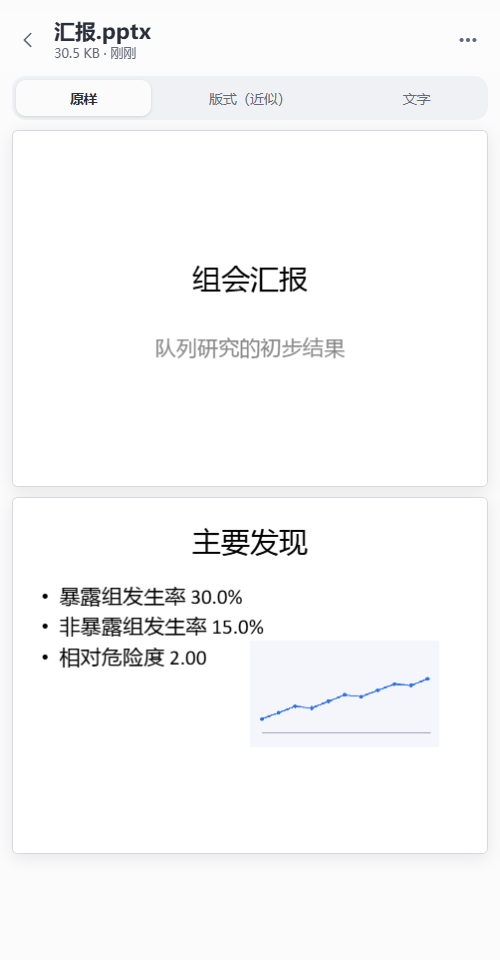
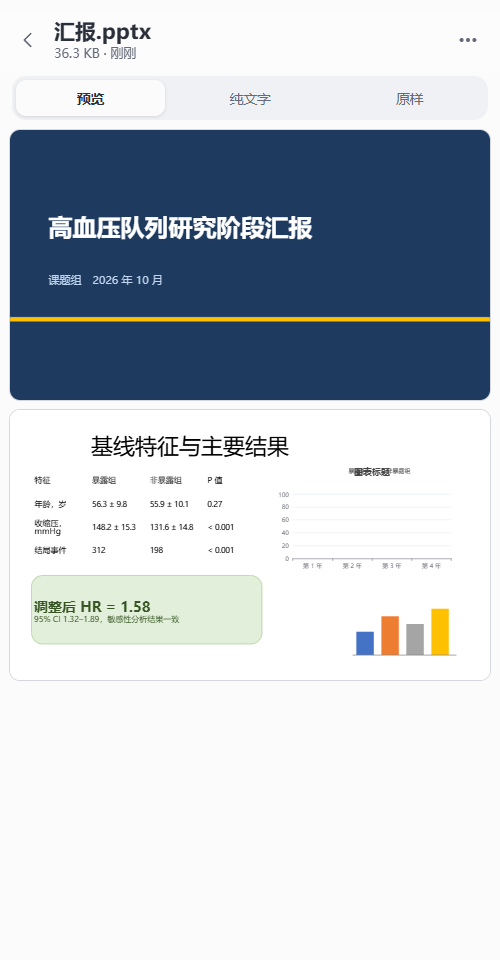
fix(files): Word and PowerPoint open at once, with their formatting and without the wait
Opening one of them first had an office program on the computer write a PDF,
then showed whole pages shrunk to the screen. The page now lays the file out
itself and shows that first: a Word file flows to the width of the screen with
its headings, emphasis, colours, tables, lists and pictures, and reads without
zooming; slides are as wide as the screen. The exact look is the last tab and
is made only when it is chosen. tests/files_check.py takes RCLI_TEST_DOCX and
RCLI_TEST_PPTX to try a document of one's own.

Version 1.0.1 (Android versionCode 29; the app itself is unchanged).

diff --git a/web/files/files.js b/web/files/files.js
@@ -123,31 +123,21 @@
     $('progress').hidden = true;
     return whole;
   }
-  // A Word file laid out as its pages, and a PowerPoint file as its slides, by this page itself. A page of paper is
-  // wider than a phone: it is shown whole, scaled to the width there is, and a tap changes to its real size.
-  function fitted(box, pick, sheet) {
-    const fit = () => {
-      const inner = box.querySelector(pick), page = box.querySelector(sheet);
-      if (!inner || !page || !box.clientWidth) return;
-      inner.style.zoom = '';
-      const wide = page.offsetWidth + 16;           // the page as it was made, with a little air beside it
-      inner.style.zoom = box.classList.contains('actual') || wide <= box.clientWidth ? '' : String(box.clientWidth / wide);
-    };
-    new ResizeObserver(fit).observe(box);
-    box.addEventListener('click', () => { box.classList.toggle('actual'); fit(); });
-    return box;
-  }
+  // A Word file with its formatting (headings, emphasis, colours, tables, pictures, lists), flowing to the width
+  // of the screen like any page of text; a PowerPoint file as its slides, each the width of the screen.
   async function wordLooks(bytes) {
     await need('jszip.min.js');           // the second looks for the first when it is loaded
     await need('docx-preview.min.js');
     const box = el('div', { className: 'looks word-looks' });
-    await docx.renderAsync(bytes, box, null, { inWrapper: true, breakPages: true, useBase64URL: true, renderHeaders: true, renderFooters: true, renderFootnotes: true });
-    return fitted(box, '.docx-wrapper', 'section.docx');
+    await docx.renderAsync(bytes, box, null, { inWrapper: false, ignoreWidth: true, ignoreHeight: true, breakPages: false, useBase64URL: true,
+      renderHeaders: false, renderFooters: false, renderFootnotes: true });
+    box.querySelectorAll('table').forEach(table => { const wrap = el('div', { className: 'wide' }); table.replaceWith(wrap); wrap.append(table); });
+    return box;
   }
   async function slideLooks(bytes) {
     await need('pptx-preview.umd.js');
     const box = el('div', { className: 'looks slide-looks' });
-    const width = Math.max(320, Math.min(document.documentElement.clientWidth, 960));
+    const width = Math.max(300, Math.min(document.documentElement.clientWidth - 20, 960));       // the margin beside the slides
     const viewer = pptxPreview.init(box, { width, height: Math.round(width * 9 / 16), mode: 'list' });
     await viewer.preview(bytes.buffer.slice(bytes.byteOffset, bytes.byteOffset + bytes.byteLength));
     return box;
@@ -445,31 +435,25 @@
       if (!view && K.readable(bytesOf(first.data))) { view = 'code'; language = 'plaintext'; }
       if (!view) { $('loading').hidden = true; return $('view').replaceChildren(unknown(first.size, '这种文件不能在这里预览。')); }
       const limit = kind.limit || 3e6;
-      // Word and PowerPoint keep their look. This page lays the newer formats out itself, pages and slides as they
-      // were made, so no program is needed on the computer. Where the computer has Word, PowerPoint or WPS, the
-      // program writes a PDF and that is shown first: it is exact, and the only way for the older formats.
+      // Word and PowerPoint are shown with their formatting, laid out by this page: light, at once, and with nothing
+      // to install on the computer. A Word file flows to the width of the screen, so it reads without zooming; its
+      // pages are not kept. The exact look, as a PDF written by an office program on the computer, is one tap away
+      // where the computer has such a program, and made only when asked for: it takes a while.
       if (LOOKS.includes(kind.ext)) {
-        const modern = kind.ext === 'docx' || kind.ext === 'pptx';
-        let exact = null, why = '';
-        if (first.size <= 150e6 && await canRender()) {
-          try { exact = await rendered(path, mine); } catch (error) { if (error.message === 'left') throw error; why = error.message; $('progress').hidden = true; }
-        } else if (!modern) why = '旧格式的文件需要电脑上装有 Word、PowerPoint 或 WPS 才能预览。';
+        const modern = kind.ext === 'docx' || kind.ext === 'pptx', exact = first.size <= 150e6 && await canRender();
         if (mine !== run) return;
-        if (!exact && !modern) { $('loading').hidden = true; return $('view').replaceChildren(unknown(first.size, why || '这种文件不能在这里预览。')); }
-        if (!exact && first.size > limit) { $('loading').hidden = true; return $('view').replaceChildren(unknown(first.size, '文件有 ' + K.size(first.size) + '，超过了预览的上限 ' + K.size(limit) + '。')); }
+        if (!modern && !exact) { $('loading').hidden = true; return $('view').replaceChildren(unknown(first.size, '旧格式的文件需要电脑上装有 Word、PowerPoint、WPS 或 LibreOffice 才能预览。')); }
+        if (modern && !exact && first.size > limit) { $('loading').hidden = true; return $('view').replaceChildren(unknown(first.size, '文件有 ' + K.size(first.size) + '，超过了预览的上限 ' + K.size(limit) + '。')); }
         let whole = null;
         const bytes = async () => { if (!whole) { whole = (await read(path, limit, mine, first)).bytes; current.bytes = whole; } return whole; };
         const list = [];
-        if (exact) list.push({ label: '原样', draw: () => pdf(exact, mine) });
         if (modern && first.size <= limit) {
-          // Word pages come out as they were made. Slides are a likeness: where a slide takes its sizes and bullets
-          // from the deck's master, this page does not follow all of it, and says so in the name.
-          list.push({ label: kind.ext === 'docx' ? '版式' : '版式（近似）', draw: async () => kind.ext === 'docx' ? wordLooks(await bytes()) : slideLooks(await bytes()) });
-          list.push({ label: '文字', draw: async () => kind.ext === 'docx' ? word(await bytes()) : slides(await bytes()) });
+          list.push({ label: '预览', draw: async () => kind.ext === 'docx' ? wordLooks(await bytes()) : slideLooks(await bytes()) });
+          list.push({ label: '纯文字', draw: async () => kind.ext === 'docx' ? word(await bytes()) : slides(await bytes()) });
         }
+        if (exact) list.push({ label: '原样', draw: async () => pdf(await rendered(path, mine), mine) });
         await tabs(list, 0);
         $('loading').hidden = true;
-        if (why && modern) toast('电脑没有转出原样预览：' + why);
         return;
       }
       if (first.size > limit) { $('loading').hidden = true; return $('view').replaceChildren(unknown(first.size, '文件有 ' + K.size(first.size) + '，超过了预览的上限 ' + K.size(limit) + '。')); }

diff --git a/web/files/files.css b/web/files/files.css
@@ -141,10 +141,14 @@
 .picture.actual { place-items: start; }
 .picture.actual img { max-width: none; cursor: zoom-out; }
 
-/* Word pages and PowerPoint slides as they were made */
-.looks { overflow-x: auto; }
-.word-looks .docx-wrapper { background: transparent !important; padding: 10px 8px 24px !important; align-items: flex-start !important; width: max-content; min-width: 100%; box-sizing: border-box; }
-.word-looks .docx-wrapper > section.docx { margin-bottom: 14px !important; box-shadow: 0 1px 6px rgba(0, 0, 0, .28) !important; color: #000; }
-.word-looks.actual { cursor: zoom-out; }
+/* Word with its formatting, flowing to the screen; PowerPoint as its slides */
+.word-looks { margin: 0 10px 24px; border: 1px solid var(--line); border-radius: 16px; background: #fff; color: #111; overflow: hidden; }
+.word-looks section.docx { width: auto !important; min-height: 0 !important; padding: 18px 16px 22px !important; margin: 0 !important; box-shadow: none !important; background: transparent !important; box-sizing: border-box; overflow-wrap: anywhere; font-size: 15px; line-height: 1.6; }
+.word-looks section.docx + section.docx { border-top: 1px dashed #d0d0d0; }
+.word-looks section.docx p { line-height: 1.6 !important; }
+.word-looks img, .word-looks svg { max-width: 100% !important; height: auto !important; }
+.word-looks .wide { overflow-x: auto; margin: .4em 0; }
+.word-looks table { max-width: none; }
+.slide-looks { margin: 0 10px 24px; }
 .slide-looks .pptx-preview-wrapper { height: auto !important; overflow: visible !important; background: transparent !important; }
-.slide-looks .pptx-preview-wrapper > * { margin-bottom: 10px; box-shadow: 0 1px 6px rgba(0, 0, 0, .28); }
+.slide-looks .pptx-preview-wrapper > * { margin-bottom: 10px; border-radius: 10px; overflow: hidden; box-shadow: 0 0 0 1px var(--line); }

diff --git a/tests/files_check.py b/tests/files_check.py
@@ -179,6 +179,10 @@ def main():
     for folder in (data, project, outside):
         folder.mkdir()
     made = samples(project)
+    # RCLI_TEST_DOCX and RCLI_TEST_PPTX put a document of one's own in place of the made-up ones, to see how it is shown.
+    for wanted, kind in (("RCLI_TEST_DOCX", "word"), ("RCLI_TEST_PPTX", "slides")):
+        if os.environ.get(wanted) and kind in made:
+            (project / made[kind]).write_bytes(Path(os.environ[wanted]).read_bytes())
     (outside / "secret.txt").write_text("not part of the project")
     linked = subprocess.run(["cmd", "/c", "mklink", "/J", str(project / "link"), str(outside)], capture_output=True).returncode == 0
     (data / "config.json").write_text(json.dumps({"Server": "http://127.0.0.1:%d" % PORT, "RemoteEnabled": True, "RemoteMaxMode": "full", "RemoteDirs": ["cohort-study=%s" % project]}), encoding="utf-8")
@@ -328,15 +332,13 @@ def main():
                     if kind not in ("word", "slides"):
                         shot(view(path), kind + ".png", drawn[kind])
                         continue
-                    # Word and PowerPoint: as the program on the computer writes them out where there is one, then as
-                    # this page lays them out itself, then as text.
-                    laid = "document.querySelectorAll('.word-looks section.docx').length > 0" if kind == "word" else "document.querySelectorAll('.slide-looks .pptx-preview-wrapper > *').length >= 2"
+                    # Word and PowerPoint: with their formatting as this page lays them out, then as plain text, then, where
+                    # the computer has an office program and only when asked for, exactly as that program writes them.
+                    laid = "document.querySelectorAll('.word-looks section.docx table').length > 0" if kind == "word" else "document.querySelectorAll('.slide-looks .pptx-preview-wrapper > *').length >= 2"
+                    shot(view(path), kind + ".png", laid, seconds=60)
+                    tab("纯文字", drawn[kind], kind + "-text.png")
                     if exact:
-                        shot(view(path), kind + "-exact.png", drawn["pdf"], seconds=120)
-                        tab("版式" if kind == "word" else "版式（近似）", laid, kind + ".png")
-                    else:
-                        shot(view(path), kind + ".png", laid, seconds=60)
-                    tab("文字", drawn[kind], kind + "-text.png")
+                        tab("原样", drawn["pdf"], kind + "-exact.png", seconds=120)
                 # Saving inside the app: the page hands the file to the phone piece by piece. A stand-in for the app
                 # collects the pieces; together they must be the file.
                 stand_in = ask("Page.addScriptToEvaluateOnNewDocument", source="window.RemoteCliNative = { got: [], saveStart(n) { this.name = n; this.got = []; return ''; }, "

diff --git a/agent-windows/Setup.cs b/agent-windows/Setup.cs
@@ -15,7 +15,7 @@ namespace RemoteCli {
 ///   --quiet            no questions and no start afterwards
 ///   --dir <folder>     where to install (default: the folder of an earlier installation, else %LOCALAPPDATA%\Programs\RemoteCli)
 public static class Setup {
-    const string Version = "1.0.0", Name = "Remote CLI";
+    const string Version = "1.0.1", Name = "Remote CLI";
     // REMOTECLI_SETUP_SANDBOX=1 is for the tests: its own registry entry and shortcut names, and no look at a running
     // copy, so trying the installer never touches a real installation.
     static readonly bool Sandbox = Environment.GetEnvironmentVariable("REMOTECLI_SETUP_SANDBOX") == "1";

diff --git a/agent-windows/RemoteCliApp.cs b/agent-windows/RemoteCliApp.cs
@@ -22,7 +22,7 @@ namespace RemoteCli {
 /// The program on the computer: a small window and a tray icon around the relay, the optional tunnel and the
 /// terminal agent. Everything it starts ends when it exits.
 public sealed class App : Form {
-    const string Version = "1.0.0";
+    const string Version = "1.0.1";
     const string TunnelDownload = "https://github.com/cloudflare/cloudflared/releases/latest/download/cloudflared-windows-amd64.exe";
     readonly string appDir = AppDomain.CurrentDomain.BaseDirectory.TrimEnd('\\');
     readonly string dataDir = TerminalAgent.DefaultData;

diff --git a/tools/package_windows.py b/tools/package_windows.py
@@ -13,7 +13,7 @@ import zipfile
 from pathlib import Path
 
 ROOT = Path(__file__).resolve().parents[1]
-VERSION = "1.0.0"
+VERSION = "1.0.1"
[1 lines of base64/hex data omitted]
 # Parts of the embeddable Python the relay never loads.
 UNUSED = ("_msi.pyd", "_sqlite3.pyd", "sqlite3.dll", "_elementtree.pyd", "pyexpat.pyd", "_wmi.pyd", "_zoneinfo.pyd", "winsound.pyd",

diff --git a/relay/server.py b/relay/server.py
@@ -24,7 +24,7 @@ sys.path.insert(0, os.path.dirname(os.path.abspath(__file__)))   # an embedded P
 import relay  # noqa: E402
 import websocket  # noqa: E402
 
-VERSION = "1.0.0"
+VERSION = "1.0.1"
 SESSION_DAYS = 90
 LOGIN_TRIES, LOGIN_LOCK, LOGIN_TRIES_ALL = 6, 900, 40
 BODY_LIMIT = 4 * 1024 * 1024
